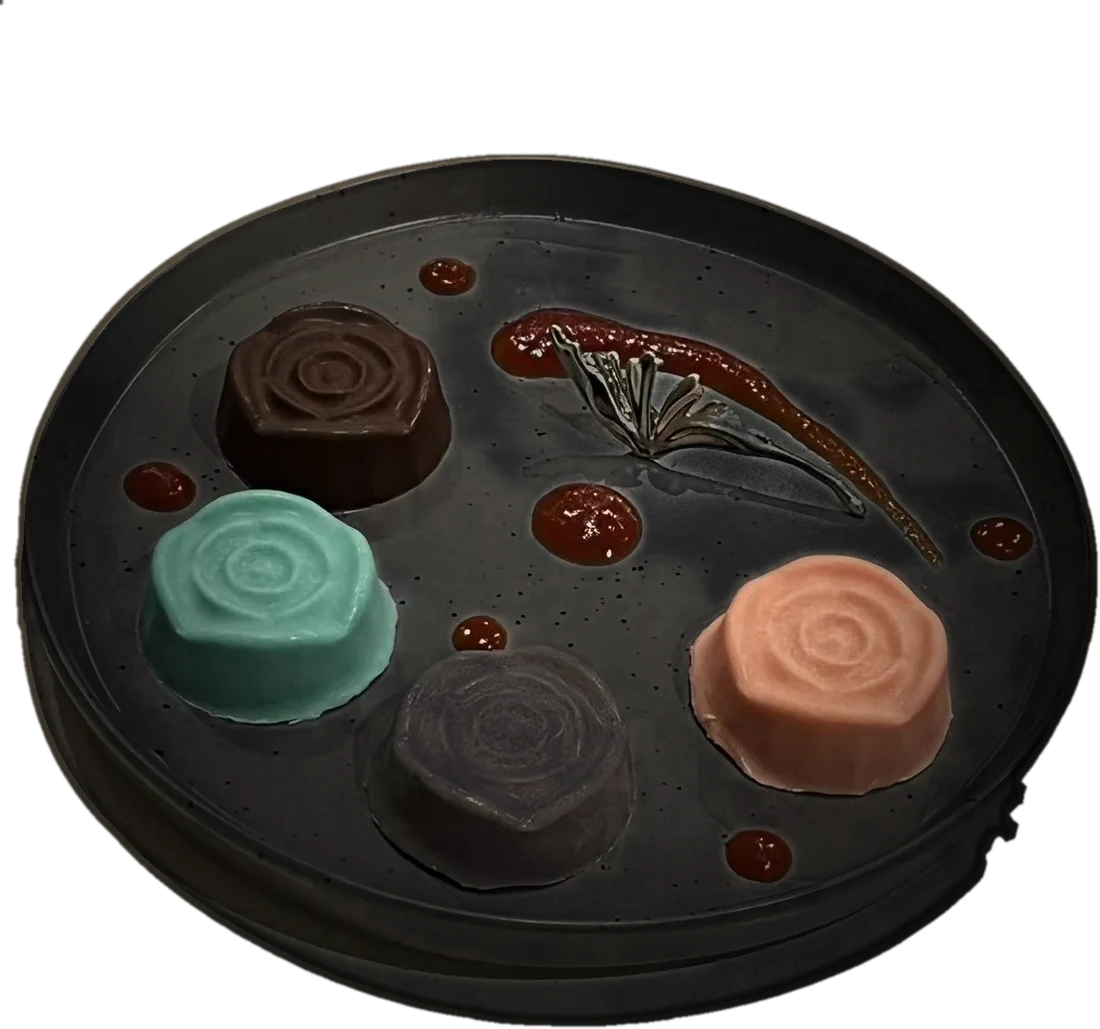
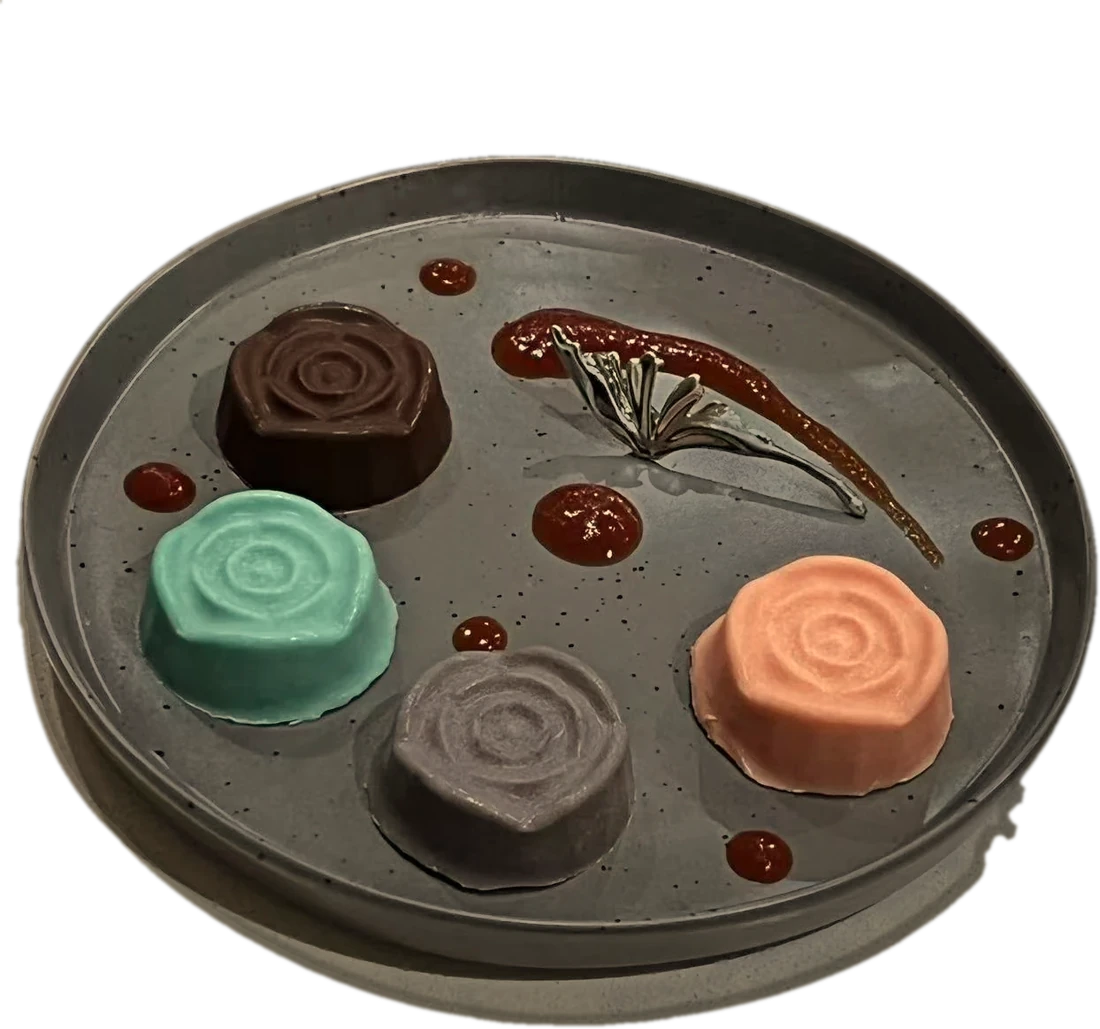
Chocolate hero: warmer chocolate backdrop, brighter plate with even falloff

diff --git a/busstop.html b/busstop.html
@@ -9,8 +9,8 @@
   <link rel="preconnect" href="https://fonts.googleapis.com" />
   <link rel="preconnect" href="https://fonts.gstatic.com" crossorigin />
   <link href="https://fonts.googleapis.com/css2?family=Montserrat:wght@300;400;500;600;700;800&family=Noto+Sans+SC:wght@300;400;500;700&display=swap" rel="stylesheet" />
-  <link rel="stylesheet" href="css/style.css?v=113" />
-  <link rel="stylesheet" href="css/busstop.css?v=113" />
+  <link rel="stylesheet" href="css/style.css?v=114" />
+  <link rel="stylesheet" href="css/busstop.css?v=114" />
   <link rel="preload" as="image" href="assets/img/3d/busstop-poster-2.webp" />
   <!-- 3D 库：优先公共 CDN（本机到 GitHub Pages 只有 ~50KB/s），失败自动回落本地副本 -->
   <script>
@@ -423,8 +423,8 @@
 
   <aside class="bs-index" id="bsIndex" aria-label="Section index"></aside>
 
-  <script src="js/content.js?v=113"></script>
-  <script src="js/main.js?v=113"></script>
-  <script src="js/busstop.js?v=113"></script>
+  <script src="js/content.js?v=114"></script>
+  <script src="js/main.js?v=114"></script>
+  <script src="js/busstop.js?v=114"></script>
 </body>
 </html>

diff --git a/about.html b/about.html
@@ -9,8 +9,8 @@
   <link rel="preconnect" href="https://fonts.googleapis.com" />
   <link rel="preconnect" href="https://fonts.gstatic.com" crossorigin />
   <link href="https://fonts.googleapis.com/css2?family=Montserrat:wght@300;400;500;600;700;800&family=Noto+Sans+SC:wght@300;400;500;700&display=swap" rel="stylesheet" />
-  <link rel="stylesheet" href="css/style.css?v=113" />
-  <link rel="stylesheet" href="css/about.css?v=109" />
+  <link rel="stylesheet" href="css/style.css?v=114" />
+  <link rel="stylesheet" href="css/about.css?v=110" />
 </head>
 <body>
 
@@ -28,8 +28,8 @@
   <!-- ================= 页面内容（由 about 脚本渲染，Contact 为最后一个区块） ================= -->
   <main class="ab-page" id="abMain"></main>
 
-  <script src="js/content.js?v=113"></script>
-  <script src="js/main.js?v=113"></script>
-  <script src="js/about.js?v=109"></script>
+  <script src="js/content.js?v=114"></script>
+  <script src="js/main.js?v=114"></script>
+  <script src="js/about.js?v=110"></script>
 </body>
 </html>

diff --git a/sunlink.html b/sunlink.html
@@ -9,8 +9,8 @@
   <link rel="preconnect" href="https://fonts.googleapis.com" />
   <link rel="preconnect" href="https://fonts.gstatic.com" crossorigin />
   <link href="https://fonts.googleapis.com/css2?family=Montserrat:wght@300;400;500;600;700;800&family=Noto+Sans+SC:wght@300;400;500;700&display=swap" rel="stylesheet" />
-  <link rel="stylesheet" href="css/style.css?v=113" />
-  <link rel="stylesheet" href="css/sunlink.css?v=112" />
+  <link rel="stylesheet" href="css/style.css?v=114" />
+  <link rel="stylesheet" href="css/sunlink.css?v=113" />
 </head>
 <body class="sl-page">
 
@@ -865,9 +865,9 @@
 
   </main>
 
-  <script src="js/content.js?v=113"></script>
-  <script src="js/main.js?v=113"></script>
+  <script src="js/content.js?v=114"></script>
+  <script src="js/main.js?v=114"></script>
   <script src="assets/vendor/three.min.js"></script>
-  <script src="js/sunlink.js?v=112"></script>
+  <script src="js/sunlink.js?v=113"></script>
 </body>
 </html>

diff --git a/steamtracker.html b/steamtracker.html
@@ -9,8 +9,8 @@
   <link rel="preconnect" href="https://fonts.googleapis.com" />
   <link rel="preconnect" href="https://fonts.gstatic.com" crossorigin />
   <link href="https://fonts.googleapis.com/css2?family=Montserrat:wght@300;400;500;600;700;800&family=Noto+Sans+SC:wght@300;400;500;700&display=swap" rel="stylesheet" />
-  <link rel="stylesheet" href="css/style.css?v=113" />
-  <link rel="stylesheet" href="css/steamtracker.css?v=113" />
+  <link rel="stylesheet" href="css/style.css?v=114" />
+  <link rel="stylesheet" href="css/steamtracker.css?v=114" />
 </head>
 <body class="st-page">
 
@@ -486,8 +486,8 @@
 
   </main>
 
-  <script src="js/content.js?v=113"></script>
-  <script src="js/main.js?v=113"></script>
-  <script src="js/steamtracker.js?v=113"></script>
+  <script src="js/content.js?v=114"></script>
+  <script src="js/main.js?v=114"></script>
+  <script src="js/steamtracker.js?v=114"></script>
 </body>
 </html>

diff --git a/chocolate.html b/chocolate.html
@@ -9,7 +9,7 @@
   <link rel="preconnect" href="https://fonts.googleapis.com" />
   <link rel="preconnect" href="https://fonts.gstatic.com" crossorigin />
   <link href="https://fonts.googleapis.com/css2?family=Montserrat:wght@300;400;500;600;700;800&family=Noto+Sans+SC:wght@300;400;500;700&display=swap" rel="stylesheet" />
-  <link rel="stylesheet" href="css/style.css?v=113" />
+  <link rel="stylesheet" href="css/style.css?v=114" />
   <link rel="stylesheet" href="css/chocolate.css?v=110" />
 </head>
 <body class="ch-page">
@@ -389,8 +389,8 @@
 
   <aside class="ch-index" id="chIndex" aria-label="Section index"></aside>
 
-  <script src="js/content.js?v=113"></script>
-  <script src="js/main.js?v=113"></script>
+  <script src="js/content.js?v=114"></script>
+  <script src="js/main.js?v=114"></script>
   <script src="js/chocolate.js?v=110"></script>
 </body>
 </html>

diff --git a/index.html b/index.html
@@ -9,7 +9,7 @@
   <link rel="preconnect" href="https://fonts.googleapis.com" />
   <link rel="preconnect" href="https://fonts.gstatic.com" crossorigin />
   <link href="https://fonts.googleapis.com/css2?family=Montserrat:wght@300;400;500;600;700;800&family=Noto+Sans+SC:wght@300;400;500;700&display=swap" rel="stylesheet" />
-  <link rel="stylesheet" href="css/style.css?v=113" />
+  <link rel="stylesheet" href="css/style.css?v=114" />
 </head>
 <body>
 
@@ -92,7 +92,7 @@
     </div>
   </footer>
 
-  <script src="js/content.js?v=113"></script>
-  <script src="js/main.js?v=113"></script>
+  <script src="js/content.js?v=114"></script>
+  <script src="js/main.js?v=114"></script>
 </body>
 </html>

diff --git a/css/chocolate.css b/css/chocolate.css
@@ -1592,7 +1592,7 @@ body.ch-page { background: var(--ch-cream); }
 
 /* 首屏 v3：提亮背景，压缩文字块让出底部提示位 */
 .ch-hero { padding: 100px 0 86px; }
-.ch-hero::before { filter: blur(1.8px) brightness(0.94) saturate(1.04) contrast(1.04); }
+.ch-hero::before { filter: blur(3.4px) brightness(1.0) saturate(1.05) contrast(1.02); }
 .ch-hero__veil {
   background:
     linear-gradient(90deg, rgba(18, 10, 7, 0.2) 0%, rgba(18, 10, 7, 0.05) 24%, rgba(18, 10, 7, 0.1) 40%, rgba(18, 10, 7, 0.66) 56%, rgba(18, 10, 7, 0.9) 76%, rgba(18, 10, 7, 0.95) 100%),
